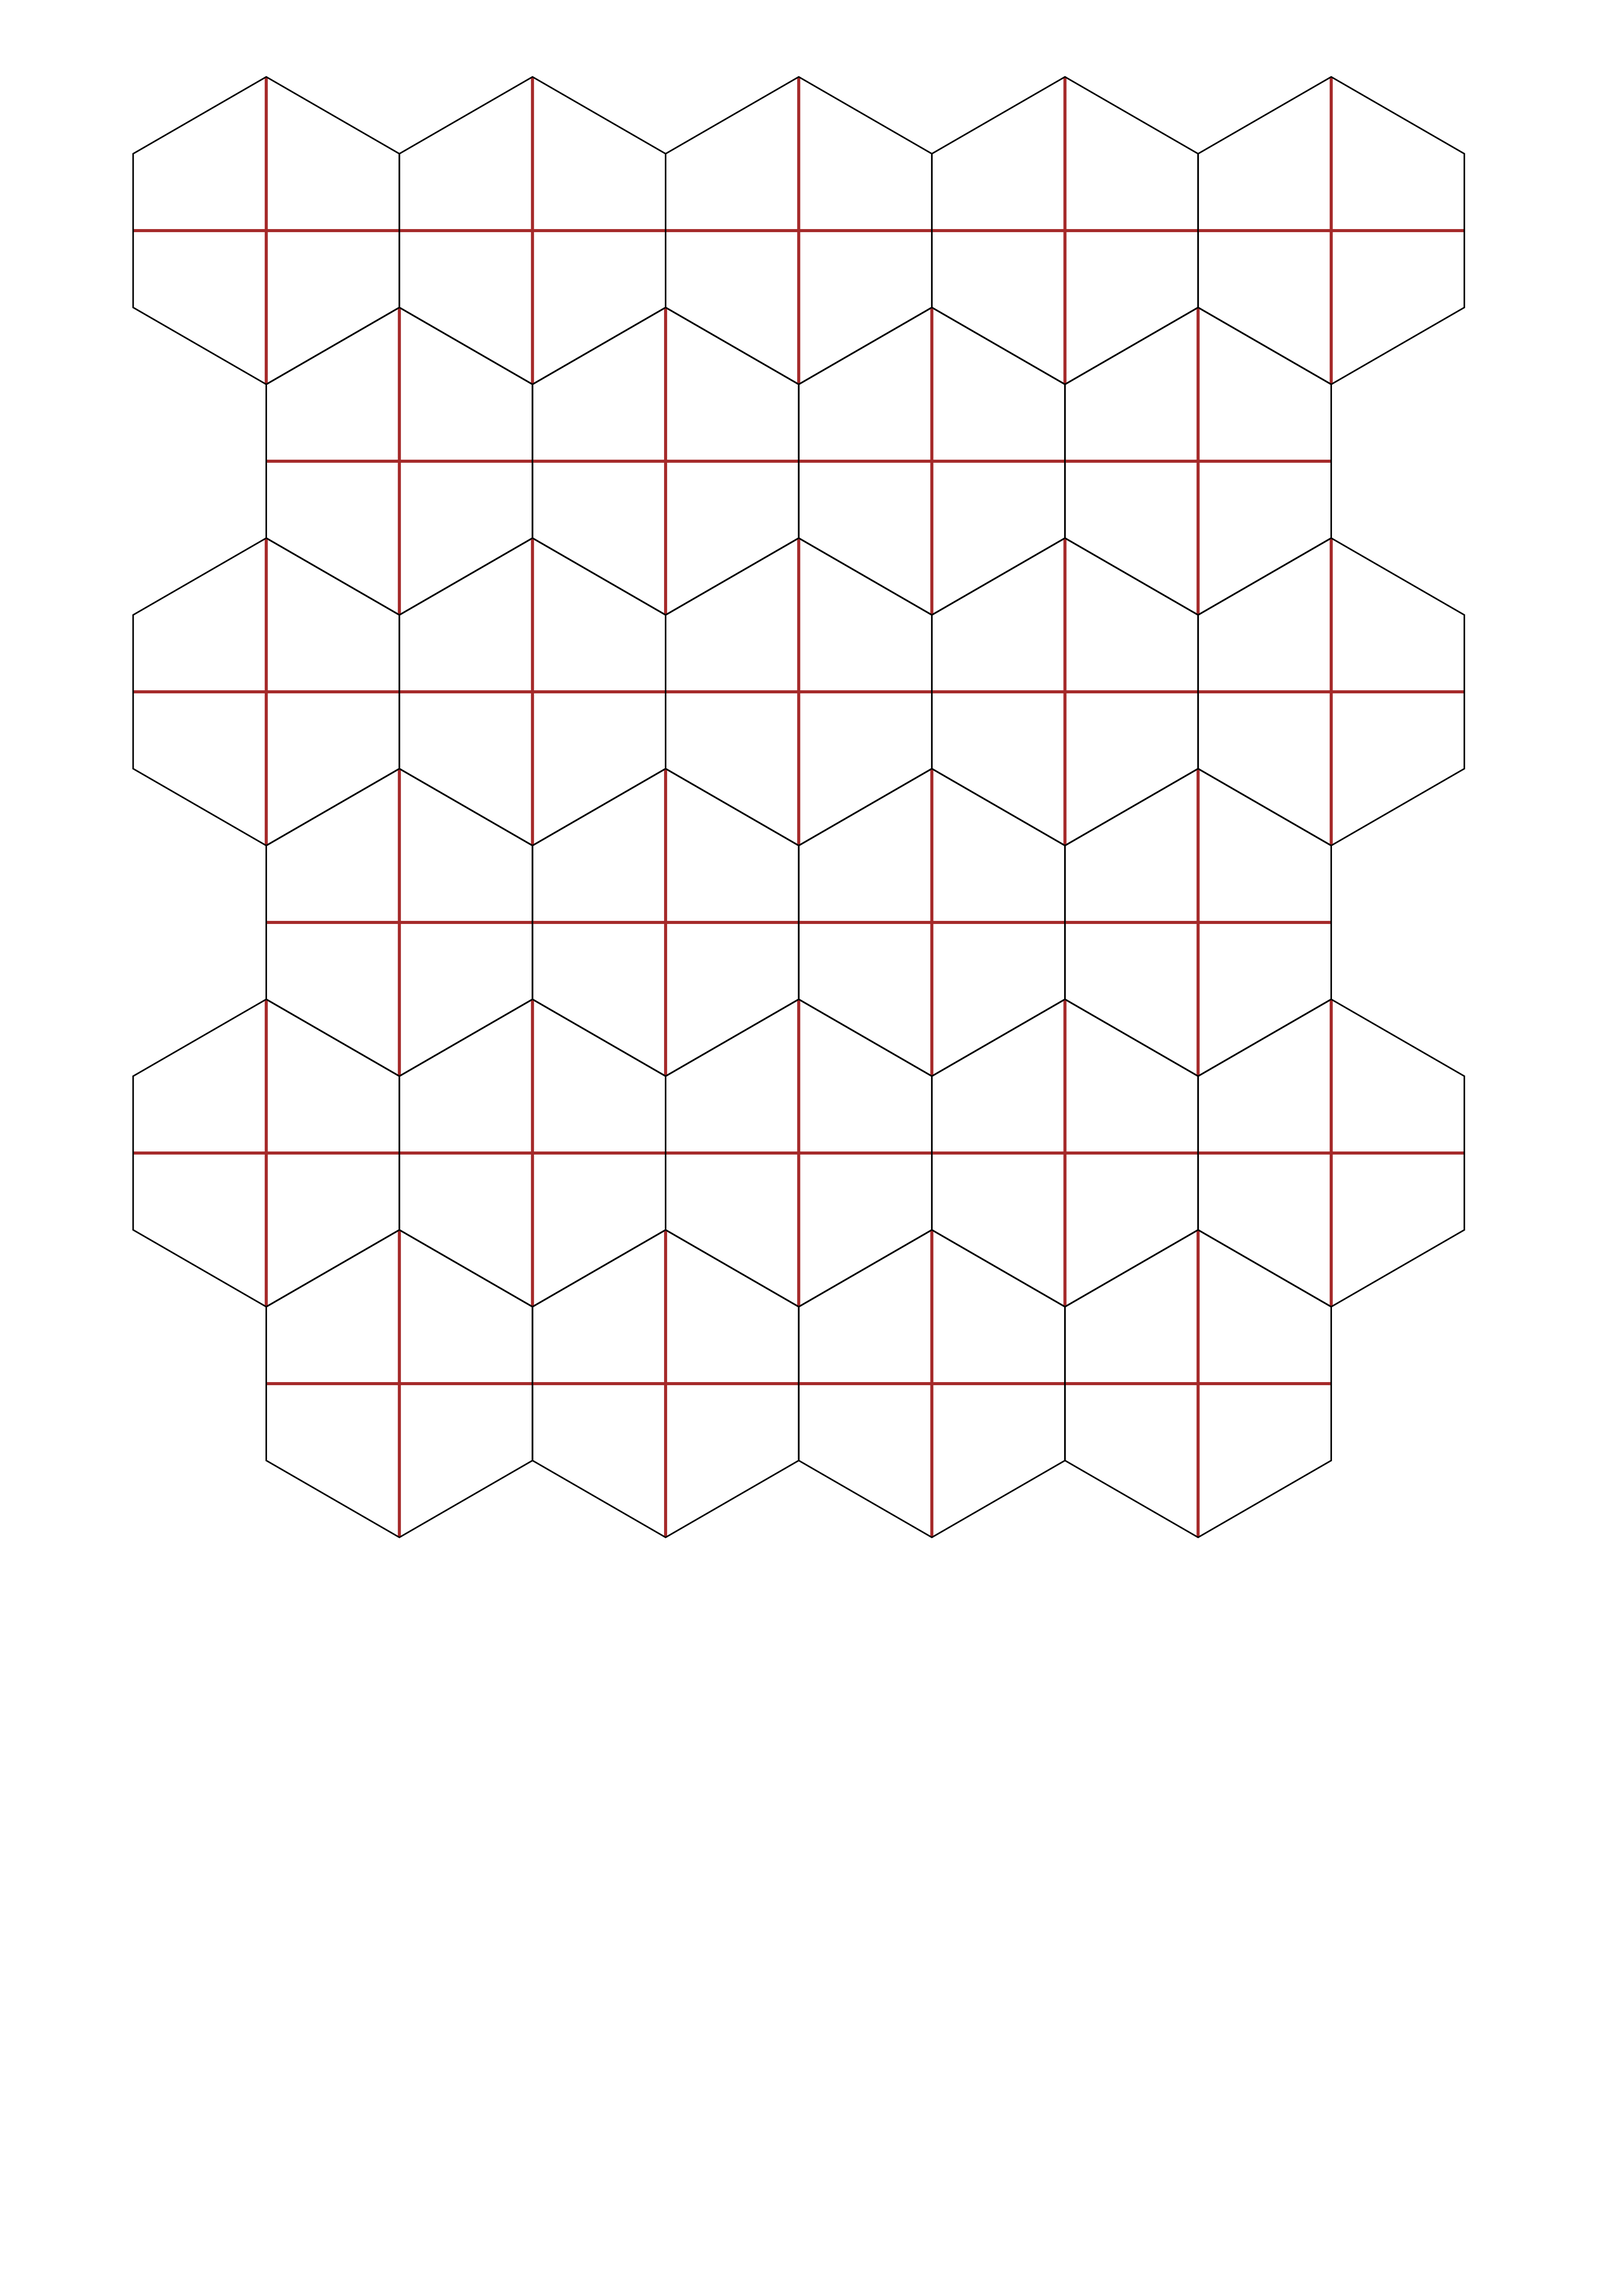
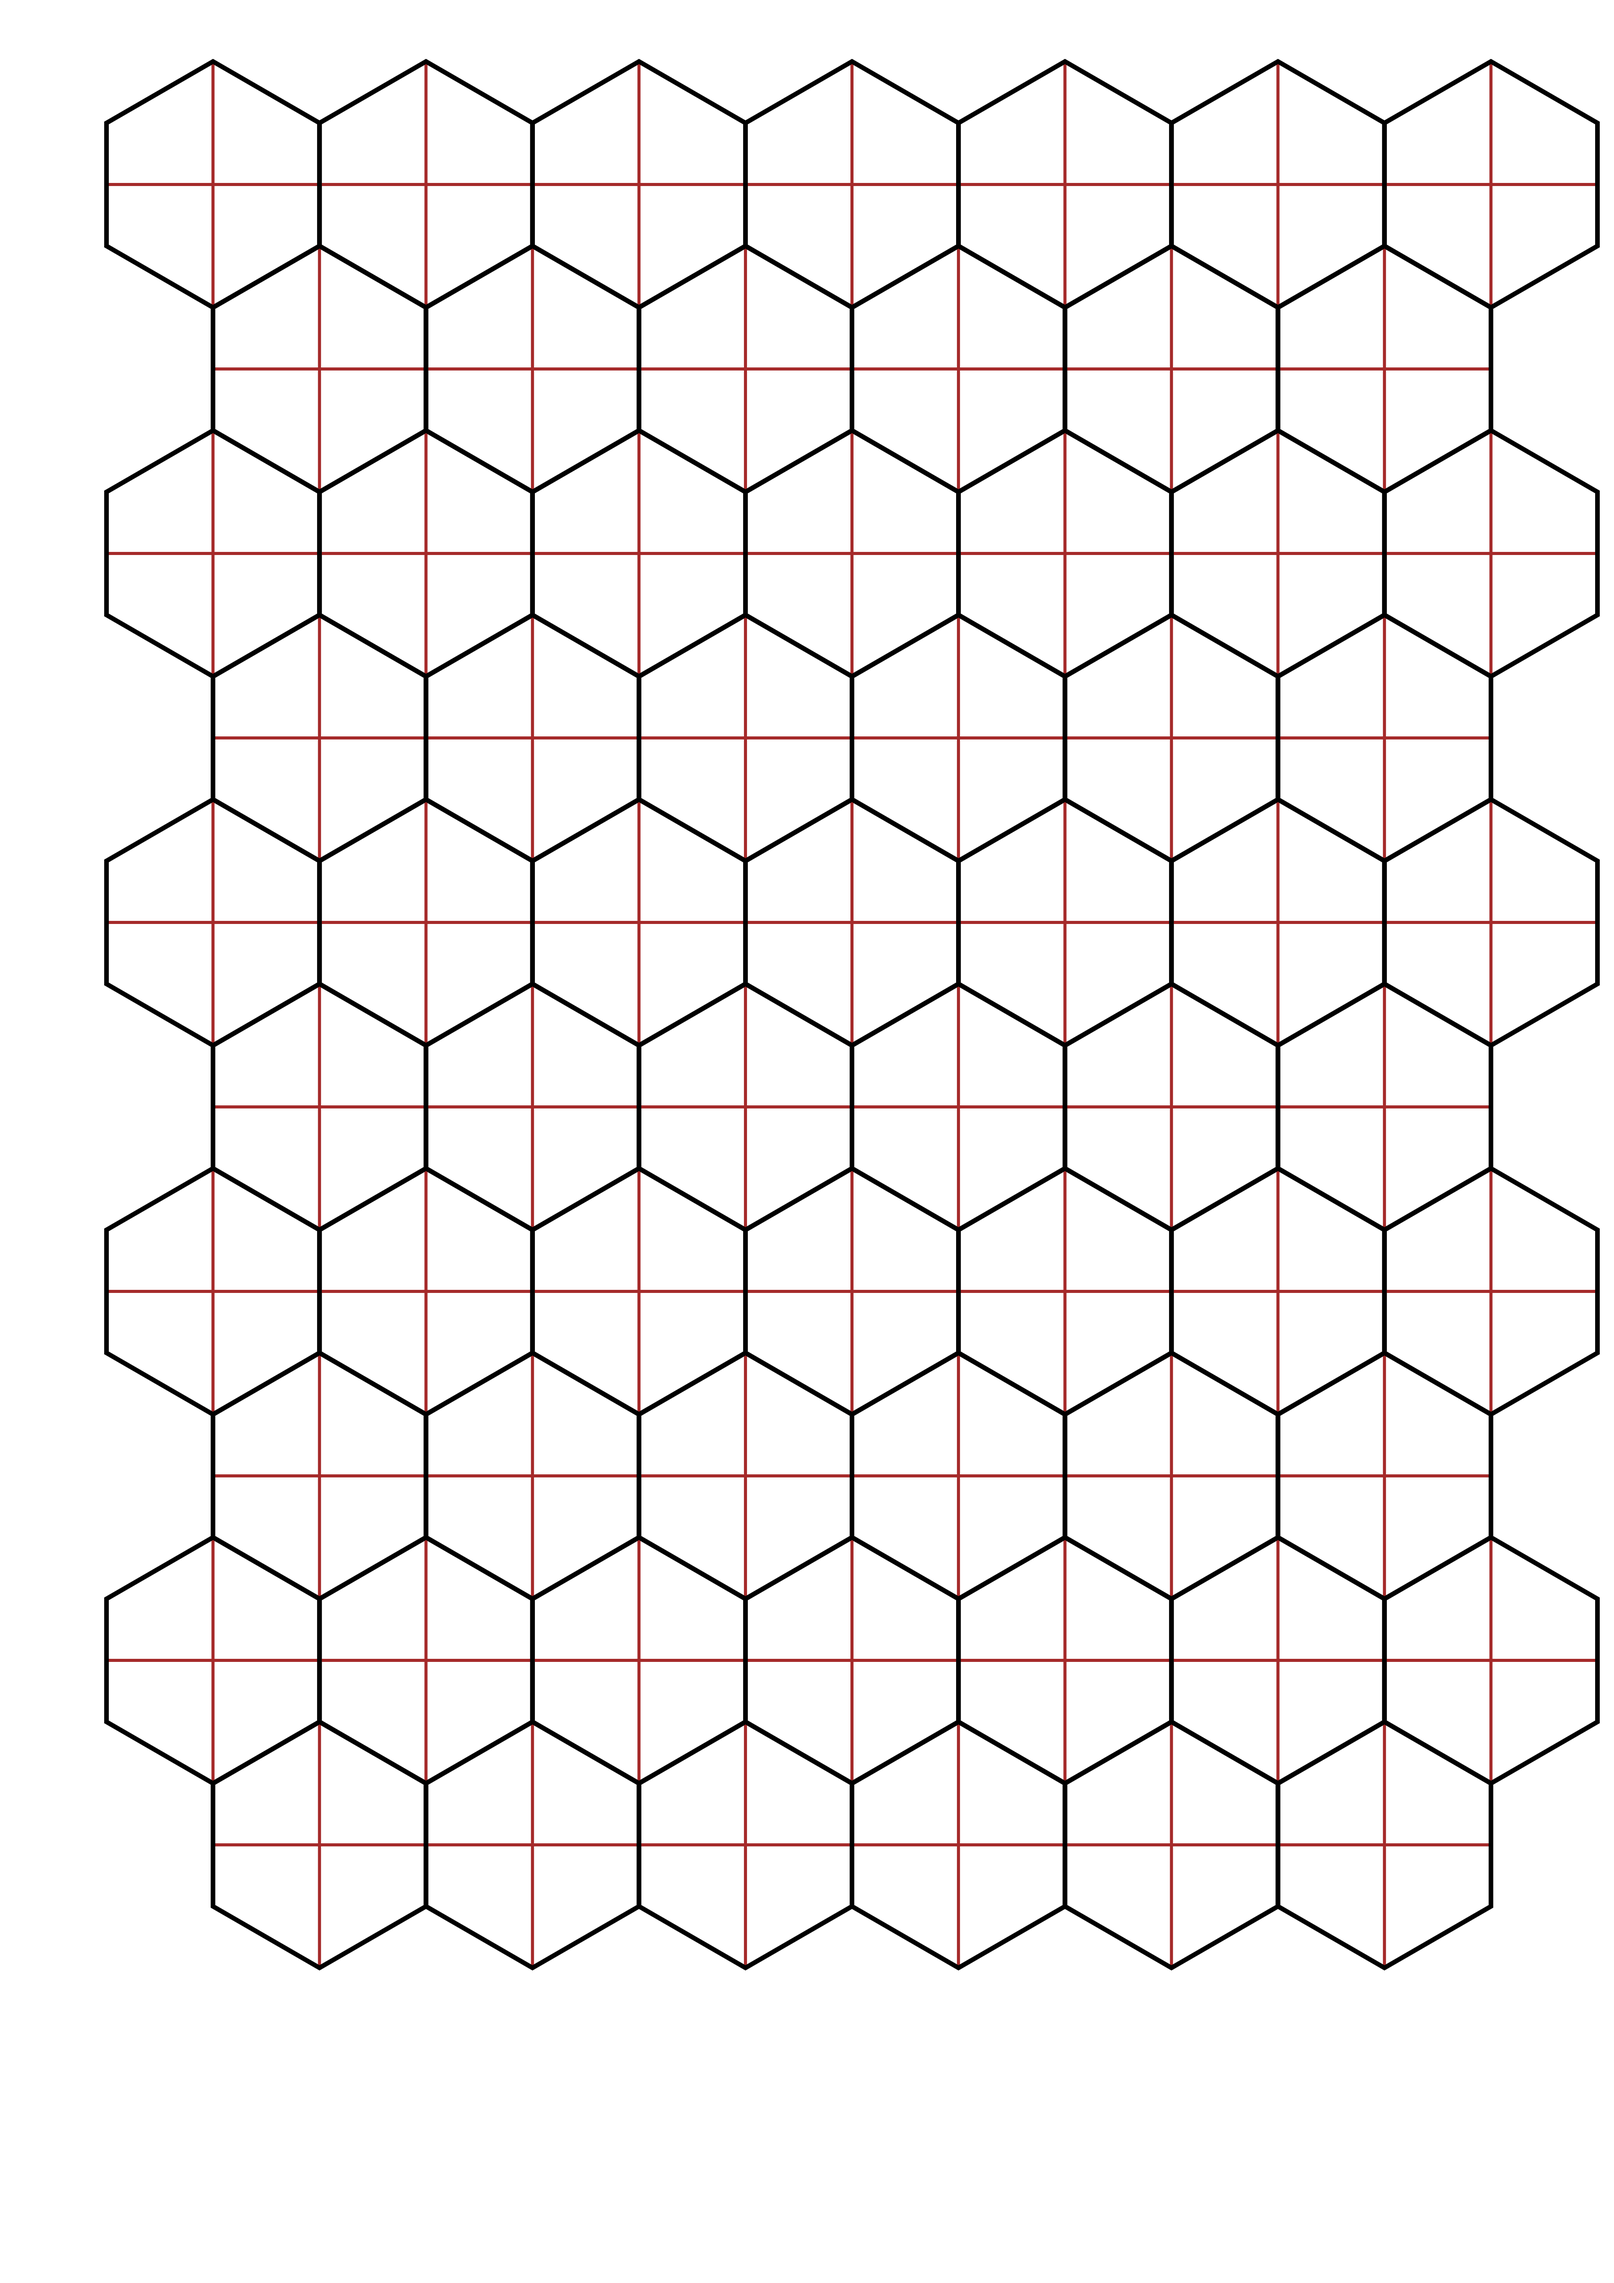
refresh example, add TODO

diff --git a/main.py b/main.py
@@ -4,9 +4,9 @@ import drawsvg as draw
 A4_X = 210
 A4_Y = 297
 
-HEXR_outer = 100 # also Length of each side
+HEXR_outer = 80 # also Length of each side
 HEXR_inner = HEXR_outer * cos(pi/6)
-HEX_THICC = 1
+HEX_THICC = 3
 SQ_THICC = 2
 
 diff_x = 2   * HEXR_inner
@@ -70,7 +70,7 @@ def draw_grid(count_x, count_y):
 # draw_hex(diff_x,     2*diff_y, 'brown')
 # draw_hex(2*diff_x,   2*diff_y, 'red')
 
-draw_grid(4,6)
+draw_grid(6,10)
 
 canvas.set_pixel_scale(4)  # Set number of pixels per geometry unit
 # canvas.set_render_size(A4_X*10, A4_Y*10)  # Alternative to set_pixel_scale

diff --git a/README.md b/README.md
@@ -3,11 +3,16 @@ Hybrid hex/square grid generator
 
 ## Example image generation
 
-![alt text](example.png)
+![Example image](example.png)
 
+## TODO
+- Generate PDF
+- Parse args for execution parameters
+- Support non-A4 layouts
+- Calculate "size-in-paper" and generate image for given size
 
 ## Build
-Has been developed with python 3.11. Local builds with be done with Python3's `venv`:
+Has been developed with python 3.11. Local runs with be done with Python3's `venv` to grab the dependencies:
 
 ### Linux
 ```bash
